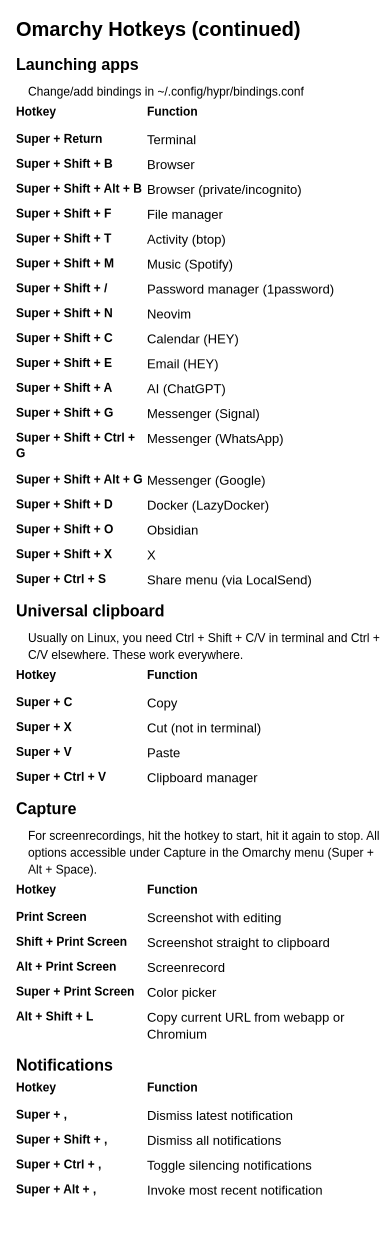
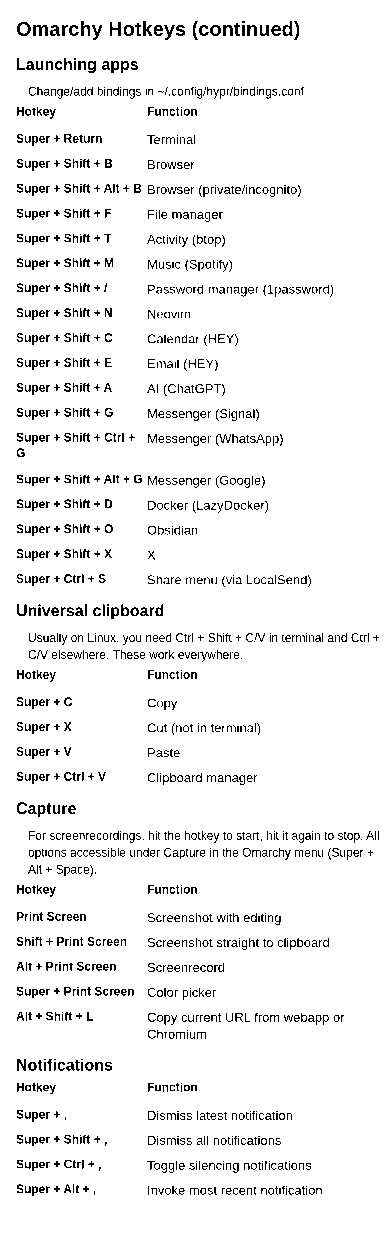
refactor: Apply 1-bit thresholding for thermal printer output
- Apply luminance-based thresholding to eliminate anti-aliasing
- Convert all pixels to pure black (0) or white (255)
- Remove anti-aliased edges for crisp thermal printer output
- Maintained 8-bit PNG format but with true 1-bit content (B&W only)
- Better compatibility with MXW01 thermal printer

diff --git a/scripts/generate-png.ts b/scripts/generate-png.ts
@@ -2,6 +2,8 @@ import { readdir, readFile, writeFile, mkdir } from "fs/promises";
 import { extname, basename, join } from "path";
 import { parse } from "toml";
 import { createCanvas } from "canvas";
+import { createWriteStream } from "fs";
+import { promisify } from "util";
 
 interface Hotkey {
   keys: string;
@@ -299,8 +301,41 @@ async function generatePNGForSections(
     }
   }
 
-  // Write PNG
-  const buffer = canvas.toBuffer("image/png");
+  // Get image data and apply 1-bit threshold (no anti-aliasing)
+  const imageData = renderCtx.getImageData(
+    0,
+    0,
+    PRINTER_WIDTH,
+    totalHeight
+  );
+  const data = imageData.data;
+
+  // Apply threshold to convert to pure black and white (1-bit)
+  // Any pixel with luminance > 127.5 becomes white (255), else black (0)
+  for (let i = 0; i < data.length; i += 4) {
+    const r = data[i];
+    const g = data[i + 1];
+    const b = data[i + 2];
+    
+    // Calculate luminance using standard formula
+    const luminance = 0.299 * r + 0.587 * g + 0.114 * b;
+    
+    // Threshold: > 127.5 = white (255), else black (0)
+    const bw = luminance > 127.5 ? 255 : 0;
+    data[i] = bw;
+    data[i + 1] = bw;
+    data[i + 2] = bw;
+    data[i + 3] = 255; // Alpha = opaque
+  }
+
+  // Create a new canvas with the thresholded image data
+  const bwCanvas = createCanvas(PRINTER_WIDTH, totalHeight);
+  const bwCtx = bwCanvas.getContext("2d");
+  bwCtx.putImageData(imageData, 0, 0);
+
+  // Save as PNG (canvas outputs 8-bit, but our image is pure B&W)
+  const buffer = bwCanvas.toBuffer("image/png");
+
   return { buffer, height: totalHeight };
 }
 
